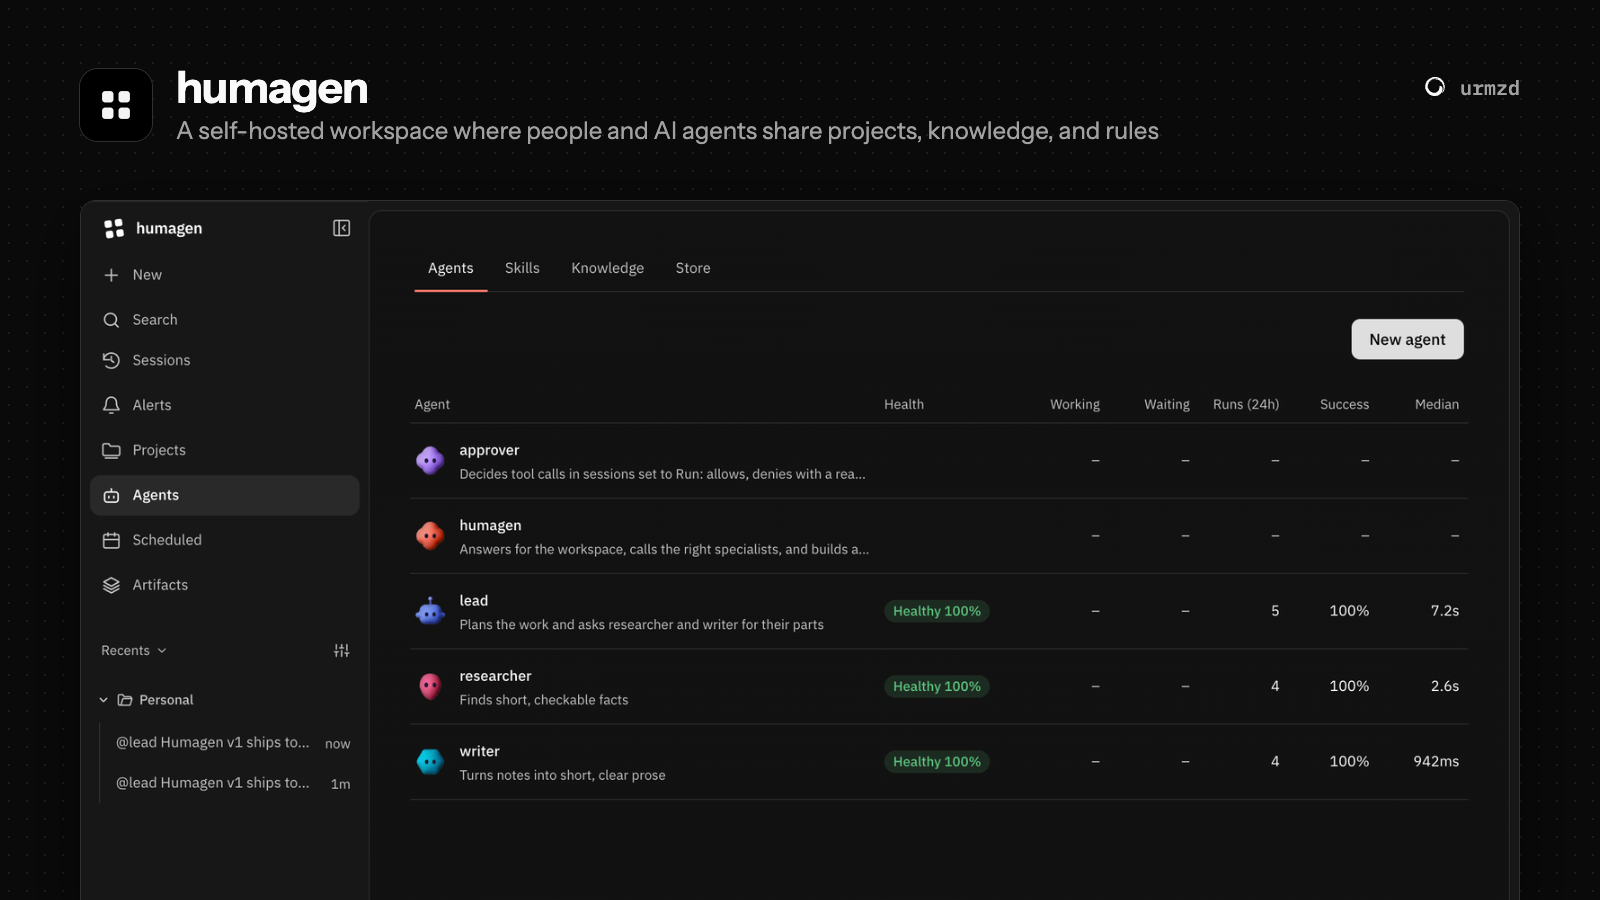
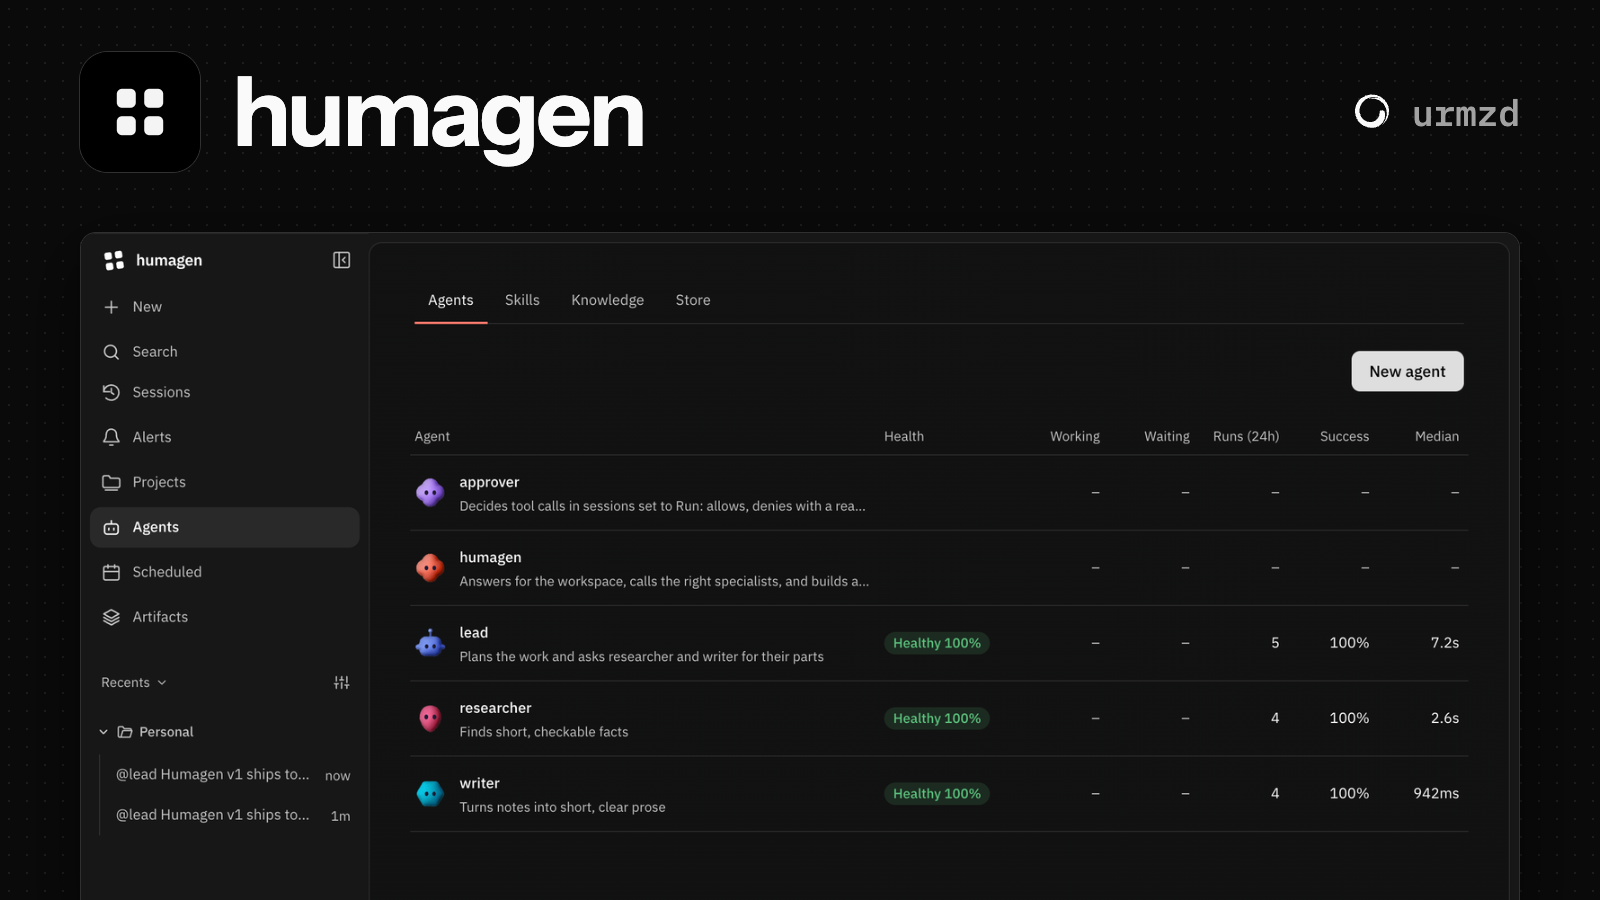
docs(showcase): legible hero and dark-mode card image
Regenerate showcase/hero-{light,dark}.png with a larger icon and name
and no tagline. SHOWCASE.md now sets the card description and
image_dark, so urmzd.com shows the dark hero in dark mode.

diff --git a/SHOWCASE.md b/SHOWCASE.md
@@ -1,3 +1,5 @@
 ---
+description: "A self-hosted workspace where people and AI agents share projects, knowledge, and rules"
 image: showcase/hero-light.png
+image_dark: showcase/hero-dark.png
 ---
